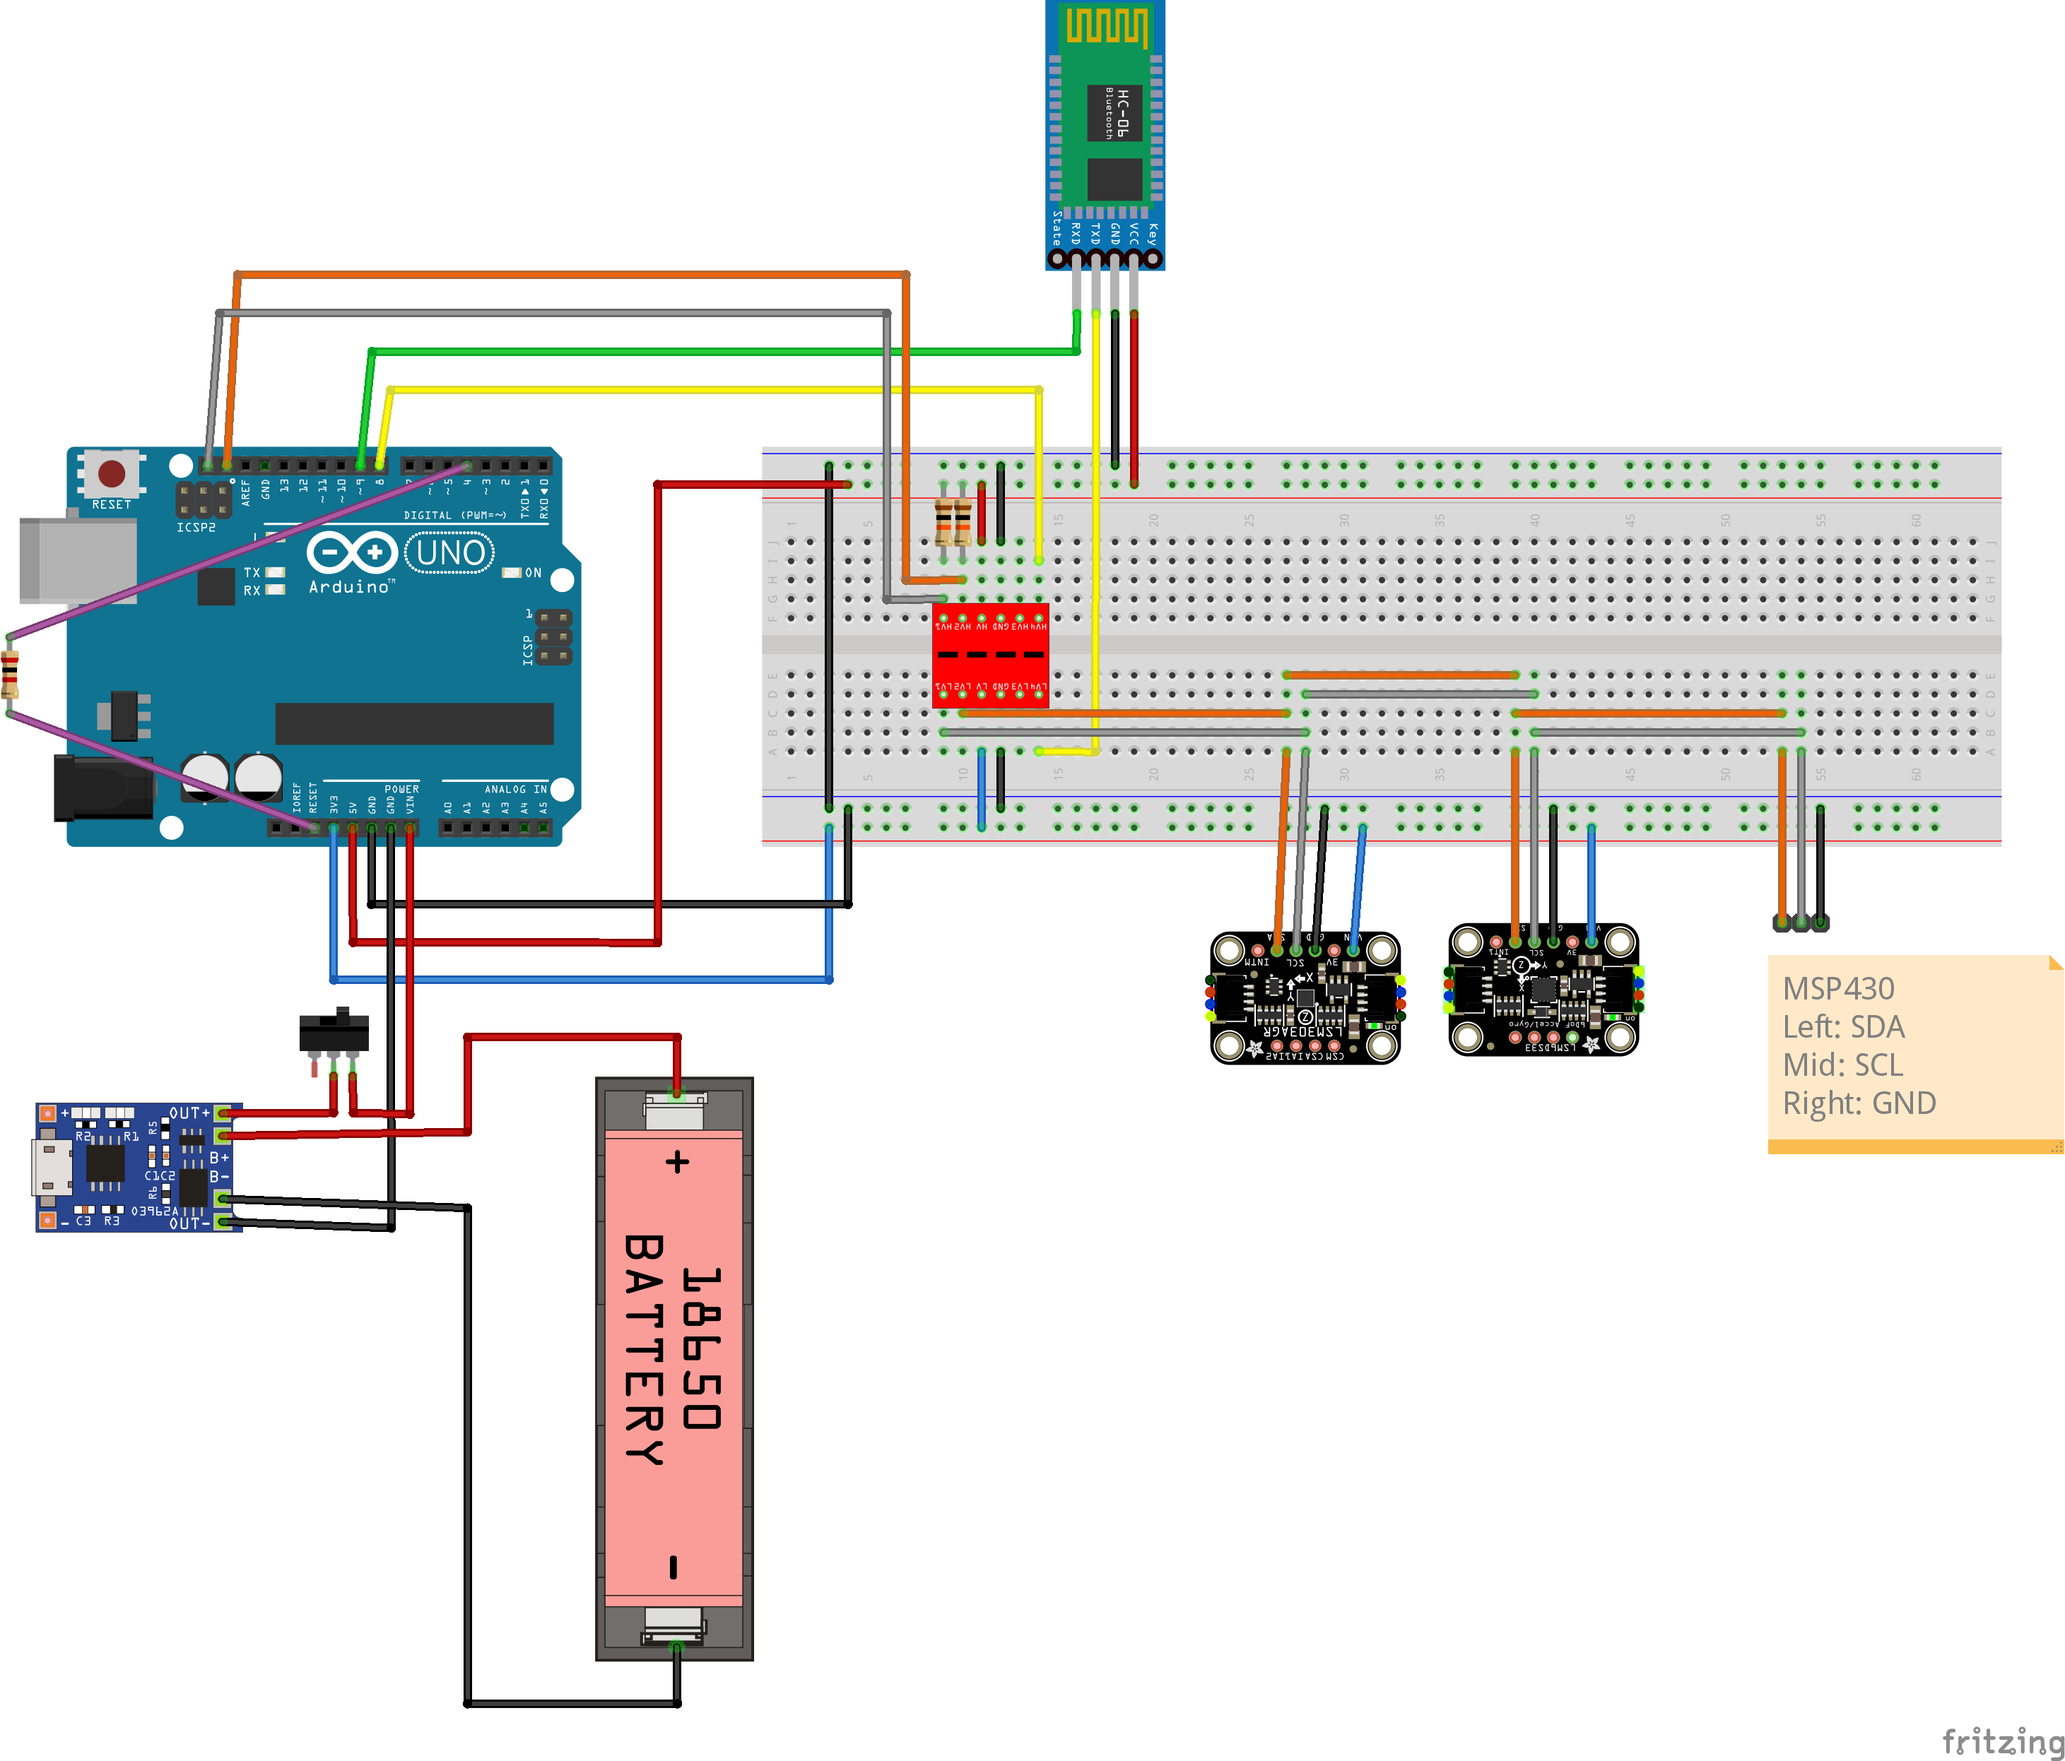
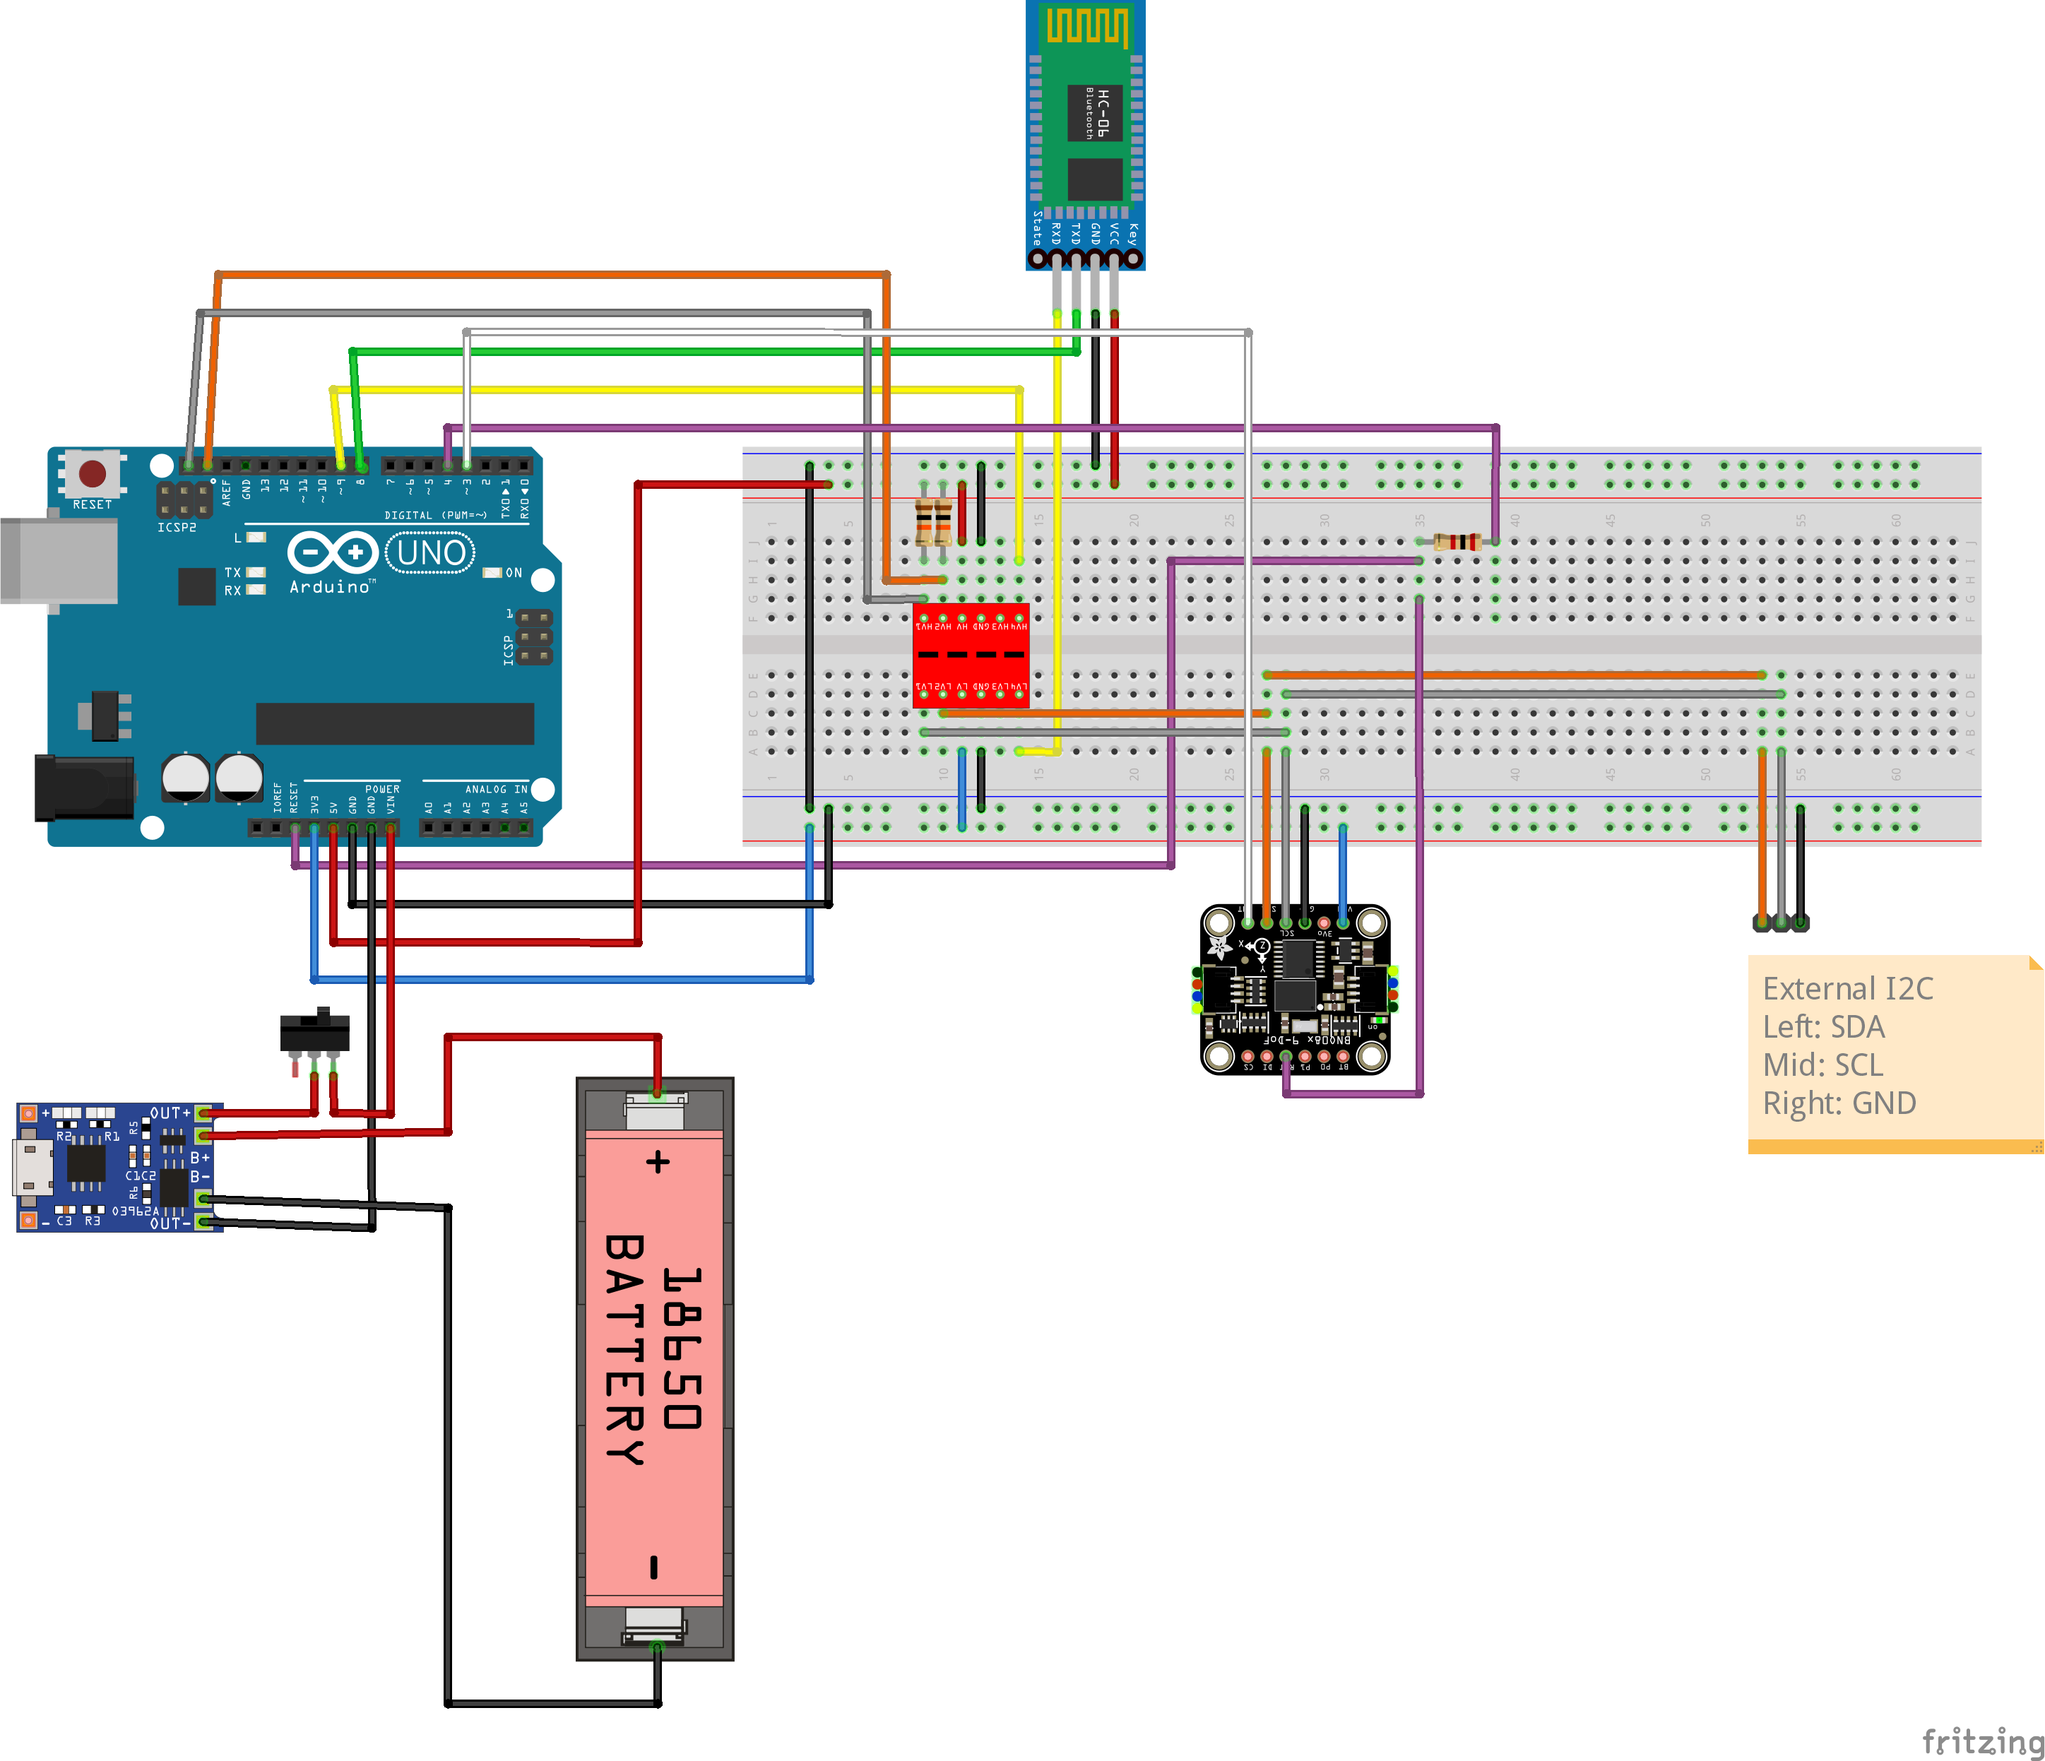
Updated breadboard for future interrupt functionality, adjusted BNO085 driver to fix latency issues

diff --git a/arduino/bno085/src/sensors/CalibratedBNO080.cpp b/arduino/bno085/src/sensors/CalibratedBNO080.cpp
@@ -16,7 +16,7 @@ constexpr uint8_t BNO080_ADDR = 0x4A;
  * @var uint16_t BNO080_PERIOD
  * Default sample period between packets.
  */
-constexpr uint16_t BNO080_PERIOD = 50;
+constexpr uint16_t BNO080_PERIOD = 100;
 
 CalibratedBNO080::CalibratedBNO080() : _bno080(BNO080()) { }
 
@@ -36,6 +36,9 @@ bool CalibratedBNO080::UpdateReadings() {
 }
 
 bool CalibratedBNO080::GetEventRaw(sensors_event_t *event, sensors_type_t type) {
+  // grab all data that may be pending
+  while (_bno080.dataAvailable()) { }
+  
   uint8_t accuracy;
   
   switch (type) {
@@ -52,6 +55,9 @@ bool CalibratedBNO080::GetEventRaw(sensors_event_t *event, sensors_type_t type) 
 }
 
 bool CalibratedBNO080::GetOrientationQuaternion(struct Quaternion *quaternion) {
+  // grab all data that may be pending
+  while (_bno080.dataAvailable()) { }
+  
   quaternion->x = _bno080.getQuatI();
   quaternion->y = _bno080.getQuatJ();
   quaternion->z = _bno080.getQuatK();
@@ -60,6 +66,9 @@ bool CalibratedBNO080::GetOrientationQuaternion(struct Quaternion *quaternion) {
 }
 
 bool CalibratedBNO080::GetOrientationEulers(struct Vector *eulers) {
+  // grab all data that may be pending
+  while (_bno080.dataAvailable()) { }
+  
   eulers->roll = _bno080.getRoll();
   eulers->pitch = _bno080.getPitch();
   eulers->heading = _bno080.getYaw();
